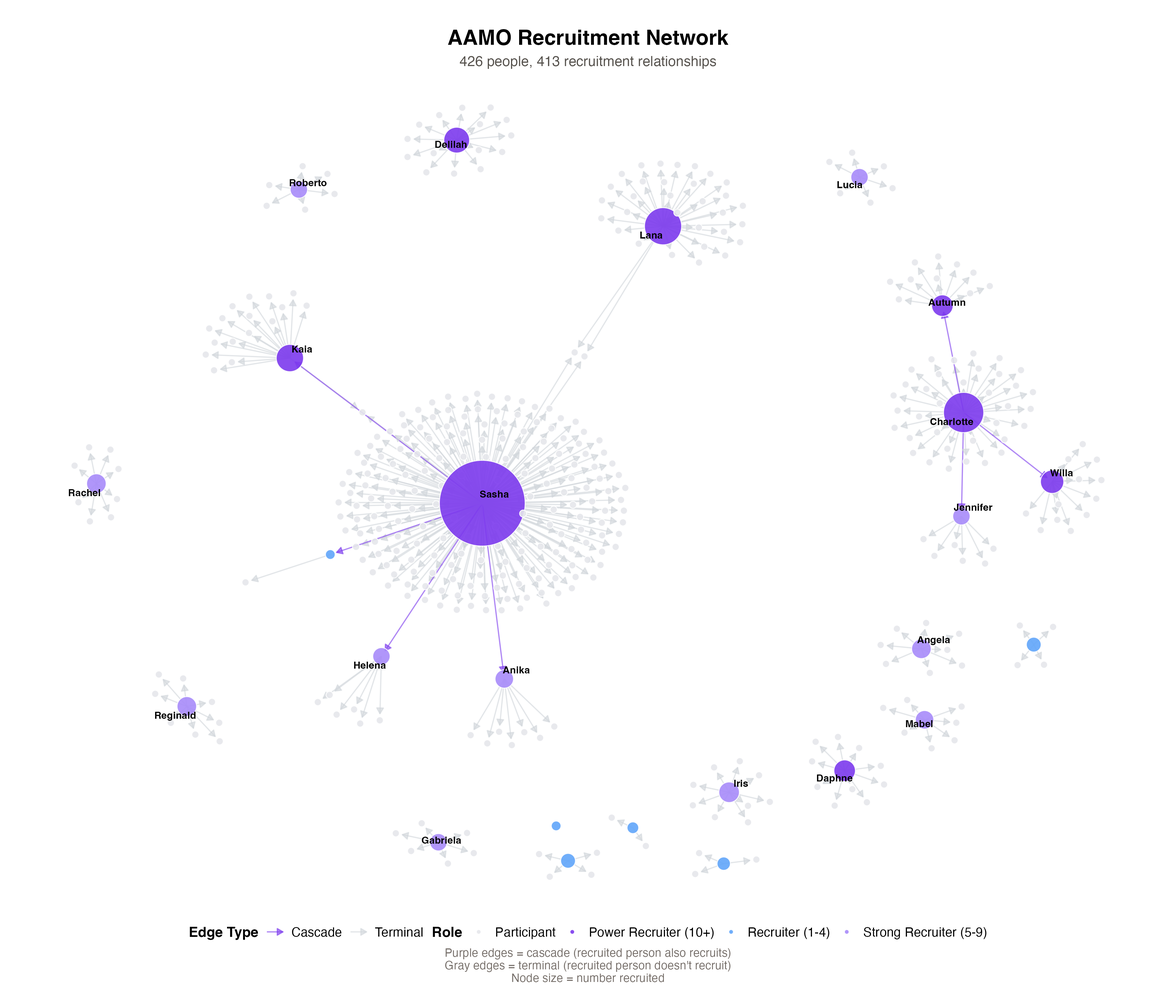
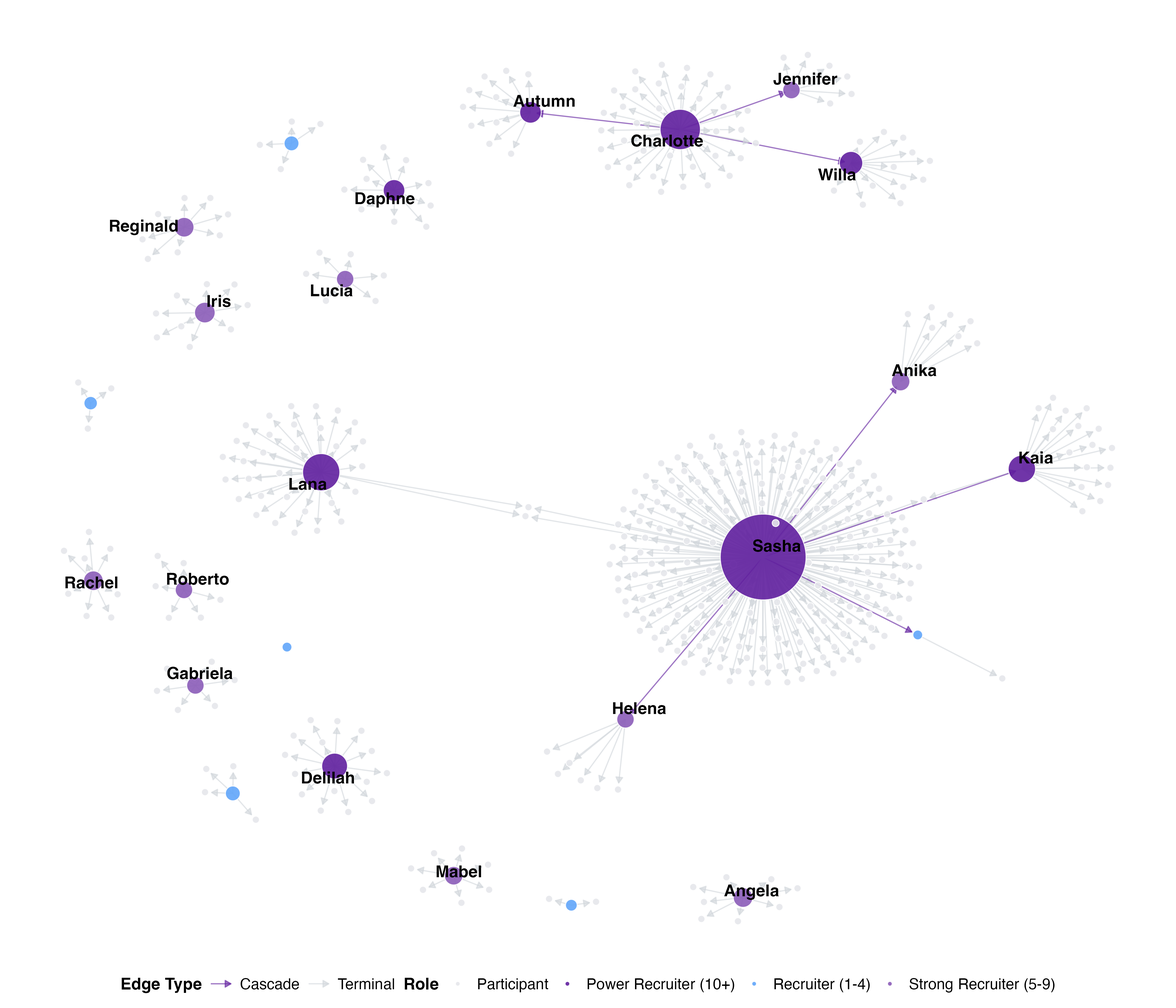
Major slide updates: DDX, states, network, mechanisms
- Remove gradients from DDX comparison chart (more academic)
- Replace state card text boxes with SVG state outlines
- Remove gradients from all attrition charts (solid purple)
- Slide 15: "broke supermajority", add e.g. to local wins, update footer
- Slide 16: "first organized, then led"
- Regenerate recruitment network: no title, new purple, bigger fonts
- Move network stats from graph to slide text
- Slide 18: add qualitative research subtitle, fix parens
- Slide 19: bigger title "Example: Mechanism #1"
- MO appendix quote: fragment animation, larger font, same formatting

Note: Attrition percentages are % of participants, not events

🤖 Generated with [Claude Code](https://claude.com/claude-code)

diff --git a/index.html b/index.html
@@ -776,42 +776,42 @@
 
             <p class="fragment" style="font-size: 0.9rem; color: var(--text-secondary); margin: 1rem 0;">DDx voter contact comparison (2024 General Election):</p>
 
-            <div class="fragment" style="background: white; border: 1px solid var(--border); border-radius: 8px; padding: 1.25rem 1.5rem;">
+            <div class="fragment" style="background: white; border: 1px solid var(--border); padding: 1.25rem 1.5rem;">
                 <div style="display: flex; justify-content: center; gap: 2.5rem; margin-bottom: 1rem; font-size: 0.95rem;">
                     <div style="display: flex; align-items: center; gap: 0.5rem;">
-                        <div style="width: 16px; height: 16px; background: linear-gradient(90deg, var(--accent), var(--accent-muted)); border-radius: 3px;"></div>
+                        <div style="width: 16px; height: 16px; background: var(--accent);"></div>
                         <span style="font-weight: 600;">POLIS IPOs</span>
                     </div>
                     <div style="display: flex; align-items: center; gap: 0.5rem;">
-                        <div style="width: 16px; height: 16px; background: #D6D3D1; border-radius: 3px;"></div>
+                        <div style="width: 16px; height: 16px; background: #A8A29E;"></div>
                         <span>Mainstream Dem Programs</span>
                     </div>
                 </div>
                 <div style="display: grid; gap: 0.5rem;">
                     <div style="display: grid; grid-template-columns: 130px 1fr 1fr; gap: 0.5rem; align-items: center;">
                         <div style="font-size: 0.95rem; font-weight: 500; text-align: right;">Voters of Color</div>
-                        <div style="display: flex; justify-content: flex-end;"><div style="width: 78%; height: 22px; background: linear-gradient(90deg, var(--accent), var(--accent-muted)); border-radius: 3px 0 0 3px; display: flex; align-items: center; padding-left: 8px;"><span style="color: white; font-size: 0.8rem; font-weight: 600;">78%</span></div></div>
-                        <div style="display: flex;"><div style="width: 45%; height: 22px; background: #D6D3D1; border-radius: 0 3px 3px 0; display: flex; align-items: center; justify-content: flex-end; padding-right: 8px;"><span style="color: var(--text-secondary); font-size: 0.8rem; font-weight: 600;">45%</span></div></div>
+                        <div style="display: flex; justify-content: flex-end;"><div style="width: 78%; height: 22px; background: var(--accent); display: flex; align-items: center; padding-left: 8px;"><span style="color: white; font-size: 0.8rem; font-weight: 600;">78%</span></div></div>
+                        <div style="display: flex;"><div style="width: 45%; height: 22px; background: #A8A29E; display: flex; align-items: center; justify-content: flex-end; padding-right: 8px;"><span style="color: white; font-size: 0.8rem; font-weight: 600;">45%</span></div></div>
                     </div>
                     <div style="display: grid; grid-template-columns: 130px 1fr 1fr; gap: 0.5rem; align-items: center;">
                         <div style="font-size: 0.95rem; font-weight: 500; text-align: right;">Under Age 44</div>
-                        <div style="display: flex; justify-content: flex-end;"><div style="width: 52%; height: 22px; background: linear-gradient(90deg, var(--accent), var(--accent-muted)); border-radius: 3px 0 0 3px; display: flex; align-items: center; padding-left: 8px;"><span style="color: white; font-size: 0.8rem; font-weight: 600;">52%</span></div></div>
-                        <div style="display: flex;"><div style="width: 38%; height: 22px; background: #D6D3D1; border-radius: 0 3px 3px 0; display: flex; align-items: center; justify-content: flex-end; padding-right: 8px;"><span style="color: var(--text-secondary); font-size: 0.8rem; font-weight: 600;">38%</span></div></div>
+                        <div style="display: flex; justify-content: flex-end;"><div style="width: 52%; height: 22px; background: var(--accent); display: flex; align-items: center; padding-left: 8px;"><span style="color: white; font-size: 0.8rem; font-weight: 600;">52%</span></div></div>
+                        <div style="display: flex;"><div style="width: 38%; height: 22px; background: #A8A29E; display: flex; align-items: center; justify-content: flex-end; padding-right: 8px;"><span style="color: white; font-size: 0.8rem; font-weight: 600;">38%</span></div></div>
                     </div>
                     <div style="display: grid; grid-template-columns: 130px 1fr 1fr; gap: 0.5rem; align-items: center;">
                         <div style="font-size: 0.95rem; font-weight: 500; text-align: right;">Low Propensity</div>
-                        <div style="display: flex; justify-content: flex-end;"><div style="width: 61%; height: 22px; background: linear-gradient(90deg, var(--accent), var(--accent-muted)); border-radius: 3px 0 0 3px; display: flex; align-items: center; padding-left: 8px;"><span style="color: white; font-size: 0.8rem; font-weight: 600;">61%</span></div></div>
-                        <div style="display: flex;"><div style="width: 50%; height: 22px; background: #D6D3D1; border-radius: 0 3px 3px 0; display: flex; align-items: center; justify-content: flex-end; padding-right: 8px;"><span style="color: var(--text-secondary); font-size: 0.8rem; font-weight: 600;">50%</span></div></div>
+                        <div style="display: flex; justify-content: flex-end;"><div style="width: 61%; height: 22px; background: var(--accent); display: flex; align-items: center; padding-left: 8px;"><span style="color: white; font-size: 0.8rem; font-weight: 600;">61%</span></div></div>
+                        <div style="display: flex;"><div style="width: 50%; height: 22px; background: #A8A29E; display: flex; align-items: center; justify-content: flex-end; padding-right: 8px;"><span style="color: white; font-size: 0.8rem; font-weight: 600;">50%</span></div></div>
                     </div>
                     <div style="display: grid; grid-template-columns: 130px 1fr 1fr; gap: 0.5rem; align-items: center;">
                         <div style="font-size: 0.95rem; font-weight: 500; text-align: right;">Rural Voters</div>
-                        <div style="display: flex; justify-content: flex-end;"><div style="width: 35%; height: 22px; background: linear-gradient(90deg, var(--accent), var(--accent-muted)); border-radius: 3px 0 0 3px; display: flex; align-items: center; padding-left: 8px;"><span style="color: white; font-size: 0.8rem; font-weight: 600;">35%</span></div></div>
-                        <div style="display: flex;"><div style="width: 18%; height: 22px; background: #D6D3D1; border-radius: 0 3px 3px 0; display: flex; align-items: center; justify-content: flex-end; padding-right: 8px;"><span style="color: var(--text-secondary); font-size: 0.8rem; font-weight: 600;">18%</span></div></div>
+                        <div style="display: flex; justify-content: flex-end;"><div style="width: 35%; height: 22px; background: var(--accent); display: flex; align-items: center; padding-left: 8px;"><span style="color: white; font-size: 0.8rem; font-weight: 600;">35%</span></div></div>
+                        <div style="display: flex;"><div style="width: 18%; height: 22px; background: #A8A29E; display: flex; align-items: center; justify-content: flex-end; padding-right: 8px;"><span style="color: white; font-size: 0.8rem; font-weight: 600;">18%</span></div></div>
                     </div>
                     <div style="display: grid; grid-template-columns: 130px 1fr 1fr; gap: 0.5rem; align-items: center;">
                         <div style="font-size: 0.95rem; font-weight: 500; text-align: right;">New Registrants</div>
-                        <div style="display: flex; justify-content: flex-end;"><div style="width: 24%; height: 22px; background: linear-gradient(90deg, var(--accent), var(--accent-muted)); border-radius: 3px 0 0 3px; display: flex; align-items: center; padding-left: 8px;"><span style="color: white; font-size: 0.8rem; font-weight: 600;">24%</span></div></div>
-                        <div style="display: flex;"><div style="width: 12%; height: 22px; background: #D6D3D1; border-radius: 0 3px 3px 0; display: flex; align-items: center; justify-content: flex-end; padding-right: 8px;"><span style="color: var(--text-secondary); font-size: 0.8rem; font-weight: 600;">12%</span></div></div>
+                        <div style="display: flex; justify-content: flex-end;"><div style="width: 24%; height: 22px; background: var(--accent); display: flex; align-items: center; padding-left: 8px;"><span style="color: white; font-size: 0.8rem; font-weight: 600;">24%</span></div></div>
+                        <div style="display: flex;"><div style="width: 12%; height: 22px; background: #A8A29E; display: flex; align-items: center; justify-content: flex-end; padding-right: 8px;"><span style="color: white; font-size: 0.8rem; font-weight: 600;">12%</span></div></div>
                     </div>
                 </div>
             </div>
@@ -878,23 +878,23 @@
                     <div class="text" style="font-size: 1.05rem; line-height: 1.5;"><strong>Minnesota</strong> — Faith-based coalitions mobilized rapid response to ICE enforcement, including a 2,000-person rally at the state Capitol.</div>
                 </div>
                 <div class="fragment state-card-img" style="padding: 1.25rem; border-radius: 8px;">
-                    <!-- Ohio outline - irregular shape with Lake Erie notch -->
-                    <svg viewBox="0 0 100 100" style="width: 55px; height: 55px; flex-shrink: 0;">
-                        <path d="M10 10 L25 8 L40 5 L55 8 L70 6 L85 12 L88 25 L85 40 L90 55 L85 70 L75 80 L60 88 L45 92 L30 88 L18 80 L10 65 L8 50 L10 35 L8 20 Z" fill="var(--accent)" stroke="white" stroke-width="2"/>
+                    <!-- Ohio outline - recognizable shape with Lake Erie coast -->
+                    <svg viewBox="0 0 120 100" style="width: 55px; height: 46px; flex-shrink: 0;">
+                        <path d="M5 15 Q15 5 35 8 Q55 3 75 10 L85 8 Q95 12 100 20 L105 35 Q108 50 100 65 L90 78 Q80 88 65 92 L50 95 Q35 93 22 85 L10 72 Q3 55 5 40 Z" fill="var(--accent)" stroke="var(--bg)" stroke-width="1.5"/>
                     </svg>
                     <div class="text" style="font-size: 1.05rem; line-height: 1.5;"><strong>Ohio</strong> — In Springfield (to protect Haitian immigrants), a church event drew 1,000+ attendees; local organizations passed a City Commission resolution on ICE cooperation.</div>
                 </div>
                 <div class="fragment state-card-img" style="padding: 1.25rem; border-radius: 8px;">
-                    <!-- Maine outline - tall narrow with eastern bump -->
-                    <svg viewBox="0 0 80 100" style="width: 45px; height: 55px; flex-shrink: 0;">
-                        <path d="M20 5 L35 3 L50 8 L60 15 L65 25 L70 35 L68 50 L72 60 L65 70 L55 80 L45 90 L35 95 L25 92 L18 85 L15 75 L12 60 L15 45 L12 30 L15 18 Z" fill="var(--accent)" stroke="white" stroke-width="2"/>
+                    <!-- Maine outline - tall narrow with distinctive eastern coastline -->
+                    <svg viewBox="0 0 70 100" style="width: 38px; height: 55px; flex-shrink: 0;">
+                        <path d="M25 5 L40 3 Q55 8 58 18 L62 28 Q65 38 60 48 L65 55 Q62 65 55 75 L48 85 Q40 95 30 97 L22 94 Q15 88 12 78 L10 65 Q8 50 12 38 L15 25 Q18 12 25 5 Z" fill="var(--accent)" stroke="var(--bg)" stroke-width="1.5"/>
                     </svg>
                     <div class="text" style="font-size: 1.05rem; line-height: 1.5;"><strong>Maine</strong> — Coordinated advocacy contributed to the end of enhanced federal enforcement operations.</div>
                 </div>
                 <div class="fragment state-card-img" style="padding: 1.25rem; border-radius: 8px;">
-                    <!-- Missouri outline - boot heel in SE -->
-                    <svg viewBox="0 0 100 100" style="width: 55px; height: 55px; flex-shrink: 0;">
-                        <path d="M8 8 L92 8 L92 22 L88 35 L92 48 L88 60 L80 72 L75 85 L68 95 L55 92 L45 95 L35 90 L25 85 L18 75 L12 60 L8 45 L12 30 L8 18 Z" fill="var(--accent)" stroke="white" stroke-width="2"/>
+                    <!-- Missouri outline - distinctive bootheel in SE corner -->
+                    <svg viewBox="0 0 120 100" style="width: 60px; height: 50px; flex-shrink: 0;">
+                        <path d="M5 8 L110 8 Q115 12 112 22 L108 35 Q112 48 108 58 L100 68 L95 78 L90 95 L75 92 L70 75 L55 72 Q40 75 25 72 L12 65 Q5 50 8 35 L5 20 Z" fill="var(--accent)" stroke="var(--bg)" stroke-width="1.5"/>
                     </svg>
                     <div class="text" style="font-size: 1.05rem; line-height: 1.5;"><strong>Missouri</strong> — POLIS organizations collected 3x the required signatures to place an anti-gerrymandering measure on the ballot.</div>
                 </div>
@@ -972,7 +972,7 @@
                             <span style="font-weight: 600; color: #3B82F6;">21%</span>
                         </div>
                         <div style="display: flex; align-items: center; gap: 0.4rem;">
-                            <div style="width: 12px; height: 12px; background: linear-gradient(90deg, #601f9e, #8b5cb8); border-radius: 2px;"></div>
+                            <div style="width: 12px; height: 12px; background: var(--accent); border-radius: 2px;"></div>
                             <span><strong>Purple</strong> — 5+ events</span>
                             <span style="font-weight: 600; color: #601f9e;">9%</span>
                         </div>
@@ -981,32 +981,32 @@
                     <div style="display: grid; gap: 0.4rem;">
                         <div style="display: grid; grid-template-columns: 140px 1fr 40px; gap: 0.5rem; align-items: center; font-size: 0.85rem;">
                             <div style="font-weight: 500; text-align: right;">Rural Civic NC</div>
-                            <div style="display: flex; height: 18px; border-radius: 3px; overflow: hidden;"><div style="width: 56%; background: #A8A29E;"></div><div style="width: 28%; background: #3B82F6;"></div><div style="width: 16%; background: linear-gradient(90deg, #601f9e, #8b5cb8);"></div></div>
+                            <div style="display: flex; height: 18px; border-radius: 3px; overflow: hidden;"><div style="width: 56%; background: #A8A29E;"></div><div style="width: 28%; background: #3B82F6;"></div><div style="width: 16%; background: var(--accent);"></div></div>
                             <div style="font-weight: 600; color: var(--accent);">16%</div>
                         </div>
                         <div style="display: grid; grid-template-columns: 140px 1fr 40px; gap: 0.5rem; align-items: center; font-size: 0.85rem;">
                             <div style="font-weight: 500; text-align: right;">FaithMN</div>
-                            <div style="display: flex; height: 18px; border-radius: 3px; overflow: hidden;"><div style="width: 60.5%; background: #A8A29E;"></div><div style="width: 24.3%; background: #3B82F6;"></div><div style="width: 15.2%; background: linear-gradient(90deg, #601f9e, #8b5cb8);"></div></div>
+                            <div style="display: flex; height: 18px; border-radius: 3px; overflow: hidden;"><div style="width: 60.5%; background: #A8A29E;"></div><div style="width: 24.3%; background: #3B82F6;"></div><div style="width: 15.2%; background: var(--accent);"></div></div>
                             <div style="font-weight: 600; color: var(--accent);">15%</div>
                         </div>
                         <div style="display: grid; grid-template-columns: 140px 1fr 40px; gap: 0.5rem; align-items: center; font-size: 0.85rem;">
                             <div style="font-weight: 500; text-align: right;">Immigrant Rights WI</div>
-                            <div style="display: flex; height: 18px; border-radius: 3px; overflow: hidden;"><div style="width: 69.9%; background: #A8A29E;"></div><div style="width: 15.4%; background: #3B82F6;"></div><div style="width: 14.7%; background: linear-gradient(90deg, #601f9e, #8b5cb8);"></div></div>
+                            <div style="display: flex; height: 18px; border-radius: 3px; overflow: hidden;"><div style="width: 69.9%; background: #A8A29E;"></div><div style="width: 15.4%; background: #3B82F6;"></div><div style="width: 14.7%; background: var(--accent);"></div></div>
                             <div style="font-weight: 600; color: var(--accent);">15%</div>
                         </div>
                         <div style="display: grid; grid-template-columns: 140px 1fr 40px; gap: 0.5rem; align-items: center; font-size: 0.85rem;">
                             <div style="font-weight: 500; text-align: right;">FaithWI</div>
-                            <div style="display: flex; height: 18px; border-radius: 3px; overflow: hidden;"><div style="width: 62.5%; background: #A8A29E;"></div><div style="width: 22.8%; background: #3B82F6;"></div><div style="width: 14.6%; background: linear-gradient(90deg, #601f9e, #8b5cb8);"></div></div>
+                            <div style="display: flex; height: 18px; border-radius: 3px; overflow: hidden;"><div style="width: 62.5%; background: #A8A29E;"></div><div style="width: 22.8%; background: #3B82F6;"></div><div style="width: 14.6%; background: var(--accent);"></div></div>
                             <div style="font-weight: 600; color: var(--accent);">15%</div>
                         </div>
                         <div style="display: grid; grid-template-columns: 140px 1fr 40px; gap: 0.5rem; align-items: center; font-size: 0.85rem;">
                             <div style="font-weight: 500; text-align: right;">People Power MI</div>
-                            <div style="display: flex; height: 18px; border-radius: 3px; overflow: hidden;"><div style="width: 69.9%; background: #A8A29E;"></div><div style="width: 16.9%; background: #3B82F6;"></div><div style="width: 13.1%; background: linear-gradient(90deg, #601f9e, #8b5cb8);"></div></div>
+                            <div style="display: flex; height: 18px; border-radius: 3px; overflow: hidden;"><div style="width: 69.9%; background: #A8A29E;"></div><div style="width: 16.9%; background: #3B82F6;"></div><div style="width: 13.1%; background: var(--accent);"></div></div>
                             <div style="font-weight: 600; color: var(--accent);">13%</div>
                         </div>
                         <div style="display: grid; grid-template-columns: 140px 1fr 40px; gap: 0.5rem; align-items: center; font-size: 0.85rem;">
                             <div style="font-weight: 500; text-align: right;">Civic OH</div>
-                            <div style="display: flex; height: 18px; border-radius: 3px; overflow: hidden;"><div style="width: 62.6%; background: #A8A29E;"></div><div style="width: 24.6%; background: #3B82F6;"></div><div style="width: 12.7%; background: linear-gradient(90deg, #601f9e, #8b5cb8);"></div></div>
+                            <div style="display: flex; height: 18px; border-radius: 3px; overflow: hidden;"><div style="width: 62.6%; background: #A8A29E;"></div><div style="width: 24.6%; background: #3B82F6;"></div><div style="width: 12.7%; background: var(--accent);"></div></div>
                             <div style="font-weight: 600; color: var(--accent);">13%</div>
                         </div>
                     </div>
@@ -1014,62 +1014,62 @@
                     <div style="display: grid; gap: 0.4rem;">
                         <div style="display: grid; grid-template-columns: 140px 1fr 40px; gap: 0.5rem; align-items: center; font-size: 0.85rem;">
                             <div style="font-weight: 500; text-align: right;">Civic Growth WI</div>
-                            <div style="display: flex; height: 18px; border-radius: 3px; overflow: hidden;"><div style="width: 57.2%; background: #A8A29E;"></div><div style="width: 33.4%; background: #3B82F6;"></div><div style="width: 9.4%; background: linear-gradient(90deg, #601f9e, #8b5cb8);"></div></div>
+                            <div style="display: flex; height: 18px; border-radius: 3px; overflow: hidden;"><div style="width: 57.2%; background: #A8A29E;"></div><div style="width: 33.4%; background: #3B82F6;"></div><div style="width: 9.4%; background: var(--accent);"></div></div>
                             <div style="font-weight: 600; color: var(--accent);">9%</div>
                         </div>
                         <div style="display: grid; grid-template-columns: 140px 1fr 40px; gap: 0.5rem; align-items: center; font-size: 0.85rem;">
                             <div style="font-weight: 500; text-align: right;">Immigrant Rights NV</div>
-                            <div style="display: flex; height: 18px; border-radius: 3px; overflow: hidden;"><div style="width: 78.1%; background: #A8A29E;"></div><div style="width: 13.7%; background: #3B82F6;"></div><div style="width: 8.2%; background: linear-gradient(90deg, #601f9e, #8b5cb8);"></div></div>
+                            <div style="display: flex; height: 18px; border-radius: 3px; overflow: hidden;"><div style="width: 78.1%; background: #A8A29E;"></div><div style="width: 13.7%; background: #3B82F6;"></div><div style="width: 8.2%; background: var(--accent);"></div></div>
                             <div style="font-weight: 600; color: var(--accent);">8%</div>
                         </div>
                         <div style="display: grid; grid-template-columns: 140px 1fr 40px; gap: 0.5rem; align-items: center; font-size: 0.85rem;">
                             <div style="font-weight: 500; text-align: right;">Labor Justice MO</div>
-                            <div style="display: flex; height: 18px; border-radius: 3px; overflow: hidden;"><div style="width: 77.6%; background: #A8A29E;"></div><div style="width: 15.2%; background: #3B82F6;"></div><div style="width: 7.2%; background: linear-gradient(90deg, #601f9e, #8b5cb8);"></div></div>
+                            <div style="display: flex; height: 18px; border-radius: 3px; overflow: hidden;"><div style="width: 77.6%; background: #A8A29E;"></div><div style="width: 15.2%; background: #3B82F6;"></div><div style="width: 7.2%; background: var(--accent);"></div></div>
                             <div style="font-weight: 600; color: var(--text-secondary);">7%</div>
                         </div>
                         <div style="display: grid; grid-template-columns: 140px 1fr 40px; gap: 0.5rem; align-items: center; font-size: 0.85rem;">
                             <div style="font-weight: 500; text-align: right;">Latinx Power AZ</div>
-                            <div style="display: flex; height: 18px; border-radius: 3px; overflow: hidden;"><div style="width: 70.7%; background: #A8A29E;"></div><div style="width: 23.9%; background: #3B82F6;"></div><div style="width: 5.4%; background: linear-gradient(90deg, #601f9e, #8b5cb8);"></div></div>
+                            <div style="display: flex; height: 18px; border-radius: 3px; overflow: hidden;"><div style="width: 70.7%; background: #A8A29E;"></div><div style="width: 23.9%; background: #3B82F6;"></div><div style="width: 5.4%; background: var(--accent);"></div></div>
                             <div style="font-weight: 600; color: var(--text-secondary);">5%</div>
                         </div>
                         <div style="display: grid; grid-template-columns: 140px 1fr 40px; gap: 0.5rem; align-items: center; font-size: 0.85rem;">
                             <div style="font-weight: 500; text-align: right;">United MI</div>
-                            <div style="display: flex; height: 18px; border-radius: 3px; overflow: hidden;"><div style="width: 69.3%; background: #A8A29E;"></div><div style="width: 25.4%; background: #3B82F6;"></div><div style="width: 5.3%; background: linear-gradient(90deg, #601f9e, #8b5cb8);"></div></div>
+                            <div style="display: flex; height: 18px; border-radius: 3px; overflow: hidden;"><div style="width: 69.3%; background: #A8A29E;"></div><div style="width: 25.4%; background: #3B82F6;"></div><div style="width: 5.3%; background: var(--accent);"></div></div>
                             <div style="font-weight: 600; color: var(--text-secondary);">5%</div>
                         </div>
                         <div style="display: grid; grid-template-columns: 140px 1fr 40px; gap: 0.5rem; align-items: center; font-size: 0.85rem;">
                             <div style="font-weight: 500; text-align: right;">ReproJus MO</div>
-                            <div style="display: flex; height: 18px; border-radius: 3px; overflow: hidden;"><div style="width: 72.9%; background: #A8A29E;"></div><div style="width: 22.7%; background: #3B82F6;"></div><div style="width: 4.4%; background: linear-gradient(90deg, #601f9e, #8b5cb8);"></div></div>
+                            <div style="display: flex; height: 18px; border-radius: 3px; overflow: hidden;"><div style="width: 72.9%; background: #A8A29E;"></div><div style="width: 22.7%; background: #3B82F6;"></div><div style="width: 4.4%; background: var(--accent);"></div></div>
                             <div style="font-weight: 600; color: var(--text-secondary);">4%</div>
                         </div>
                         <div style="display: grid; grid-template-columns: 140px 1fr 40px; gap: 0.5rem; align-items: center; font-size: 0.85rem;">
                             <div style="font-weight: 500; text-align: right;">Civic Federation NC</div>
-                            <div style="display: flex; height: 18px; border-radius: 3px; overflow: hidden;"><div style="width: 77.3%; background: #A8A29E;"></div><div style="width: 18.5%; background: #3B82F6;"></div><div style="width: 4.2%; background: linear-gradient(90deg, #601f9e, #8b5cb8);"></div></div>
+                            <div style="display: flex; height: 18px; border-radius: 3px; overflow: hidden;"><div style="width: 77.3%; background: #A8A29E;"></div><div style="width: 18.5%; background: #3B82F6;"></div><div style="width: 4.2%; background: var(--accent);"></div></div>
                             <div style="font-weight: 600; color: var(--text-secondary);">4%</div>
                         </div>
                         <div style="display: grid; grid-template-columns: 140px 1fr 40px; gap: 0.5rem; align-items: center; font-size: 0.85rem;">
                             <div style="font-weight: 500; text-align: right;">Faith Interfaith PA</div>
-                            <div style="display: flex; height: 18px; border-radius: 3px; overflow: hidden;"><div style="width: 75.2%; background: #A8A29E;"></div><div style="width: 20.8%; background: #3B82F6;"></div><div style="width: 4%; background: linear-gradient(90deg, #601f9e, #8b5cb8);"></div></div>
+                            <div style="display: flex; height: 18px; border-radius: 3px; overflow: hidden;"><div style="width: 75.2%; background: #A8A29E;"></div><div style="width: 20.8%; background: #3B82F6;"></div><div style="width: 4%; background: var(--accent);"></div></div>
                             <div style="font-weight: 600; color: var(--text-secondary);">4%</div>
                         </div>
                         <div style="display: grid; grid-template-columns: 140px 1fr 40px; gap: 0.5rem; align-items: center; font-size: 0.85rem;">
                             <div style="font-weight: 500; text-align: right;">Black Civic NC</div>
-                            <div style="display: flex; height: 18px; border-radius: 3px; overflow: hidden;"><div style="width: 73.8%; background: #A8A29E;"></div><div style="width: 22.6%; background: #3B82F6;"></div><div style="width: 3.5%; background: linear-gradient(90deg, #601f9e, #8b5cb8);"></div></div>
+                            <div style="display: flex; height: 18px; border-radius: 3px; overflow: hidden;"><div style="width: 73.8%; background: #A8A29E;"></div><div style="width: 22.6%; background: #3B82F6;"></div><div style="width: 3.5%; background: var(--accent);"></div></div>
                             <div style="font-weight: 600; color: var(--text-secondary);">4%</div>
                         </div>
                         <div style="display: grid; grid-template-columns: 140px 1fr 40px; gap: 0.5rem; align-items: center; font-size: 0.85rem;">
                             <div style="font-weight: 500; text-align: right;">AAPI Civic PA</div>
-                            <div style="display: flex; height: 18px; border-radius: 3px; overflow: hidden;"><div style="width: 84.4%; background: #A8A29E;"></div><div style="width: 14%; background: #3B82F6;"></div><div style="width: 1.6%; background: linear-gradient(90deg, #601f9e, #8b5cb8);"></div></div>
+                            <div style="display: flex; height: 18px; border-radius: 3px; overflow: hidden;"><div style="width: 84.4%; background: #A8A29E;"></div><div style="width: 14%; background: #3B82F6;"></div><div style="width: 1.6%; background: var(--accent);"></div></div>
                             <div style="font-weight: 600; color: var(--text-secondary);">2%</div>
                         </div>
                         <div style="display: grid; grid-template-columns: 140px 1fr 40px; gap: 0.5rem; align-items: center; font-size: 0.85rem;">
                             <div style="font-weight: 500; text-align: right;">Urban Action MI</div>
-                            <div style="display: flex; height: 18px; border-radius: 3px; overflow: hidden;"><div style="width: 84.2%; background: #A8A29E;"></div><div style="width: 14.3%; background: #3B82F6;"></div><div style="width: 1.5%; background: linear-gradient(90deg, #601f9e, #8b5cb8);"></div></div>
+                            <div style="display: flex; height: 18px; border-radius: 3px; overflow: hidden;"><div style="width: 84.2%; background: #A8A29E;"></div><div style="width: 14.3%; background: #3B82F6;"></div><div style="width: 1.5%; background: var(--accent);"></div></div>
                             <div style="font-weight: 600; color: var(--text-secondary);">2%</div>
                         </div>
                         <div style="display: grid; grid-template-columns: 140px 1fr 40px; gap: 0.5rem; align-items: center; font-size: 0.85rem;">
                             <div style="font-weight: 500; text-align: right;">Youth Power AZ</div>
-                            <div style="display: flex; height: 18px; border-radius: 3px; overflow: hidden;"><div style="width: 95%; background: #A8A29E;"></div><div style="width: 5%; background: #3B82F6;"></div><div style="width: 0%; background: linear-gradient(90deg, #601f9e, #8b5cb8);"></div></div>
+                            <div style="display: flex; height: 18px; border-radius: 3px; overflow: hidden;"><div style="width: 95%; background: #A8A29E;"></div><div style="width: 5%; background: #3B82F6;"></div><div style="width: 0%; background: var(--accent);"></div></div>
                             <div style="font-weight: 600; color: var(--text-secondary);">0%</div>
                         </div>
                     </div>
@@ -1243,12 +1243,12 @@
                     <tr class="highlight">
                         <td class="number" style="font-size: 1.75rem; padding: 1.25rem;">&gt;200</td>
                         <td style="font-size: 1.2rem; padding: 1.25rem;">3x or larger</td>
-                        <td style="font-size: 1.1rem; padding: 1.25rem; line-height: 1.5;">Statewide wins (MN 7/7 races; OH Emilia Sykes; NC supermajority; AZ Prop 139 abortion; WI referenda; MO Prop A min wage, Amend 3 abortion; AZ Prop 479 transportation)</td>
+                        <td style="font-size: 1.1rem; padding: 1.25rem; line-height: 1.5;">Statewide wins (MN 7/7 races; OH Emilia Sykes; NC broke supermajority; AZ Prop 139 abortion; WI referenda; MO Prop A min wage, Amend 3 abortion; AZ Prop 479 transportation)</td>
                     </tr>
                     <tr>
                         <td class="number" style="font-size: 1.75rem; padding: 1.25rem;">80-200</td>
                         <td style="font-size: 1.2rem; padding: 1.25rem;">2x or larger</td>
-                        <td style="font-size: 1.1rem; padding: 1.25rem; line-height: 1.5;">Local campaign wins (MI judge races; NC school board races)</td>
+                        <td style="font-size: 1.1rem; padding: 1.25rem; line-height: 1.5;">Local campaign wins (e.g., MI judge races, NC school board races)</td>
                     </tr>
                     <tr>
                         <td class="number" style="font-size: 1.75rem; padding: 1.25rem;">&lt;50</td>
@@ -1258,7 +1258,7 @@
                 </tbody>
             </table>
 
-            <p class="table-note" style="font-size: 1.1rem; margin-top: 1.5rem;">* Pattern consistent across red, blue, and purple electoral contexts</p>
+            <p class="table-note" style="font-size: 1.1rem; margin-top: 1.5rem;">* Pattern consistent across electoral contexts and across orgs that mobilized similar volumes of participation at peak campaign moments.</p>
         </div>
         <span class="slide-number">15</span>
     </section>
@@ -1284,7 +1284,7 @@
                     <p class="small-text" style="margin-top: 0.5rem; text-align: center;">Durham school board: 4/4 seats won (March 2026) · 995 purple line leaders across 2 NC organizations</p>
                 </div>
                 <ul class="bullet-list" style="font-size: clamp(0.95rem, 1.4vw, 1.1rem); margin-top: 0;">
-                    <li class="fragment"><strong style="color: var(--accent);">Jason Dunkin</strong> (purple line leader) organized residents in Granville Co. to restore a local playground and basketball court, led a team of vols to elect the first-ever Black Sheriff</li>
+                    <li class="fragment"><strong style="color: var(--accent);">Jason Dunkin</strong> (purple line leader) first organized residents in Granville Co. to restore a local playground and basketball court, then led a team of vols to elect the first-ever Black Sheriff</li>
                     <li class="fragment"><strong style="color: var(--accent);">Allison Riggs</strong> won NC Supreme Court by <strong>734 votes</strong> (closest statewide race in NC history); POLIS IPOs led ballot-curing effort to secure her victory</li>
                     <li class="fragment">POLIS IPOs helped flip a state House seat by a mere <strong>228 votes</strong>, breaking GOP supermajority</li>
                 </ul>
@@ -1305,6 +1305,7 @@
         <div class="content wide" style="max-width: 1100px;">
             <div class="statement-box" style="margin-bottom: 0.75rem;">
                 <p>Network analysis reveals which leaders are recruiting and developing others.</p>
+                <p style="font-size: 0.95rem; color: var(--text-secondary); margin-top: 0.5rem;">N = 426 participants · 413 recruitment relationships</p>
             </div>
 
             <!-- Legend -->
@@ -1467,9 +1468,7 @@
                         <text x="400" y="245" text-anchor="middle" fill="white" font-family="'Source Serif 4', Georgia, serif" font-size="14" font-weight="700">Sasha</text>
                         <text x="400" y="262" text-anchor="middle" fill="rgba(255,255,255,0.9)" font-size="11">(185)</text>
                     </g>
-                    <!-- Stats annotation -->
-                    <text x="400" y="485" text-anchor="middle" fill="#78716C" font-size="12" font-family="'Inter', sans-serif">N = 426 · 413 recruitment relationships</text>
-                </svg>
+                                    </svg>
             </div>
 
             <blockquote class="fragment" style="font-family: 'Source Serif 4', Georgia, serif; font-size: clamp(1.15rem, 1.8vw, 1.4rem); line-height: 1.5; color: var(--text-secondary); font-style: italic; margin-top: 1rem; padding-left: 1.25rem; border-left: 4px solid var(--accent-muted);">
@@ -1491,13 +1490,14 @@
 
         <div class="content">
             <h2 style="font-size: clamp(1.6rem, 3.5vw, 2.5rem);">Proposed Mechanisms</h2>
+            <p style="font-family: 'Source Serif 4', Georgia, serif; font-size: 1.1rem; font-style: italic; color: var(--text-secondary); margin-top: 0.5rem;">Based on companion qualitative research: 2 years of fieldwork; 50+ in-depth interviews</p>
 
             <ol style="list-style: none; margin-top: 1rem;">
                 <li class="fragment" style="display: flex; align-items: baseline; margin-bottom: 0.85rem;">
                     <span style="font-family: 'Source Serif 4', Georgia, serif; font-size: 1.5rem; font-weight: 600; color: var(--accent); margin-right: 0.75rem; line-height: 1;">1</span>
                     <div>
                         <p style="font-size: clamp(1rem, 1.5vw, 1.2rem); font-weight: 600; margin-bottom: 0.15rem;">Culture of agency</p>
-                        <p style="font-size: 0.9rem; color: var(--text-secondary);">Sustained participation builds belief that collective action works—a self-reinforcing cycle</p>
+                        <p style="font-size: 0.9rem; color: var(--text-secondary);">Sustained participation builds belief that collective action works (self-reinforcing cycle)</p>
                     </div>
                 </li>
                 <li class="fragment" style="display: flex; align-items: baseline; margin-bottom: 0.85rem;">
@@ -1550,7 +1550,7 @@
         <div class="corner corner-br"></div>
 
         <div class="content">
-            <p style="font-size: 1rem; color: var(--accent); font-weight: 500; margin-bottom: 1.25rem; text-align: center;">On Mechanism #1: Culture of Agency</p>
+            <p style="font-size: 1.3rem; color: var(--accent); font-weight: 600; margin-bottom: 1.25rem; text-align: center;">Example: Mechanism #1 — Culture of Agency</p>
 
             <div class="fragment pull-quote">
                 "I made a choice with my team that we were going to believe in people a lot more and center actual normal people in our work and ask them to do hard things and not even hard things, just necessary things...<span class="fragment">And since then, every single organizer has an organizing committee in specific districts that they're organizing. We're not just being a grab bag, seeing whoever comes toward us. We were like, no, we need to build power in this district."</span>
@@ -1710,10 +1710,19 @@
         <div class="corner corner-bl"></div>
         <div class="corner corner-br"></div>
 
-        <div class="content" style="max-width: 750px;">
-            <p style="font-size: 0.85rem; color: var(--accent); font-weight: 500; margin-bottom: 1rem;">On credible commitment through sustained presence:</p>
-            <div class="pull-quote" style="font-size: clamp(0.9rem, 1.4vw, 1.05rem);">
-                "They do the work. They door-knock. They show up, they have monthly meetings to organize in the community to talk about different issues. So they're keeping the community engaged. [...] They're effective because they are building, they're building true people power, right? They're not waiting for a spark moment of legislation and then being like, 'Okay, we have to reorganize.' They're organizing 24/7, seven days a week, all year round. [...] And I think some groups sometimes they have spark moments and then they kind of lay low and then they come back around and lay low. So [this organization] is just staying in everybody's face."
+        <div class="content" style="max-width: 800px;">
+            <p style="font-size: 1.1rem; color: var(--accent); font-weight: 600; margin-bottom: 1.25rem; text-align: center;">On credible commitment through sustained presence:</p>
+
+            <div class="fragment pull-quote" style="font-size: clamp(1.1rem, 1.8vw, 1.3rem);">
+                "They do the work. They door-knock. They show up, they have monthly meetings to organize in the community to talk about different issues. So they're keeping the community engaged."
+            </div>
+
+            <div class="fragment pull-quote" style="font-size: clamp(1.1rem, 1.8vw, 1.3rem); margin-top: 1rem;">
+                "They're effective because they are building, they're building true people power, right? They're not waiting for a spark moment of legislation and then being like, 'Okay, we have to reorganize.' They're organizing 24/7, seven days a week, all year round."
+            </div>
+
+            <div class="fragment pull-quote" style="font-size: clamp(1.1rem, 1.8vw, 1.3rem); margin-top: 1rem;">
+                "And I think some groups sometimes they have spark moments and then they kind of lay low and then they come back around and lay low. So [this organization] is just staying in everybody's face."
                 <span class="attribution">— Municipal legislator, Missouri (D)</span>
             </div>
         </div>
